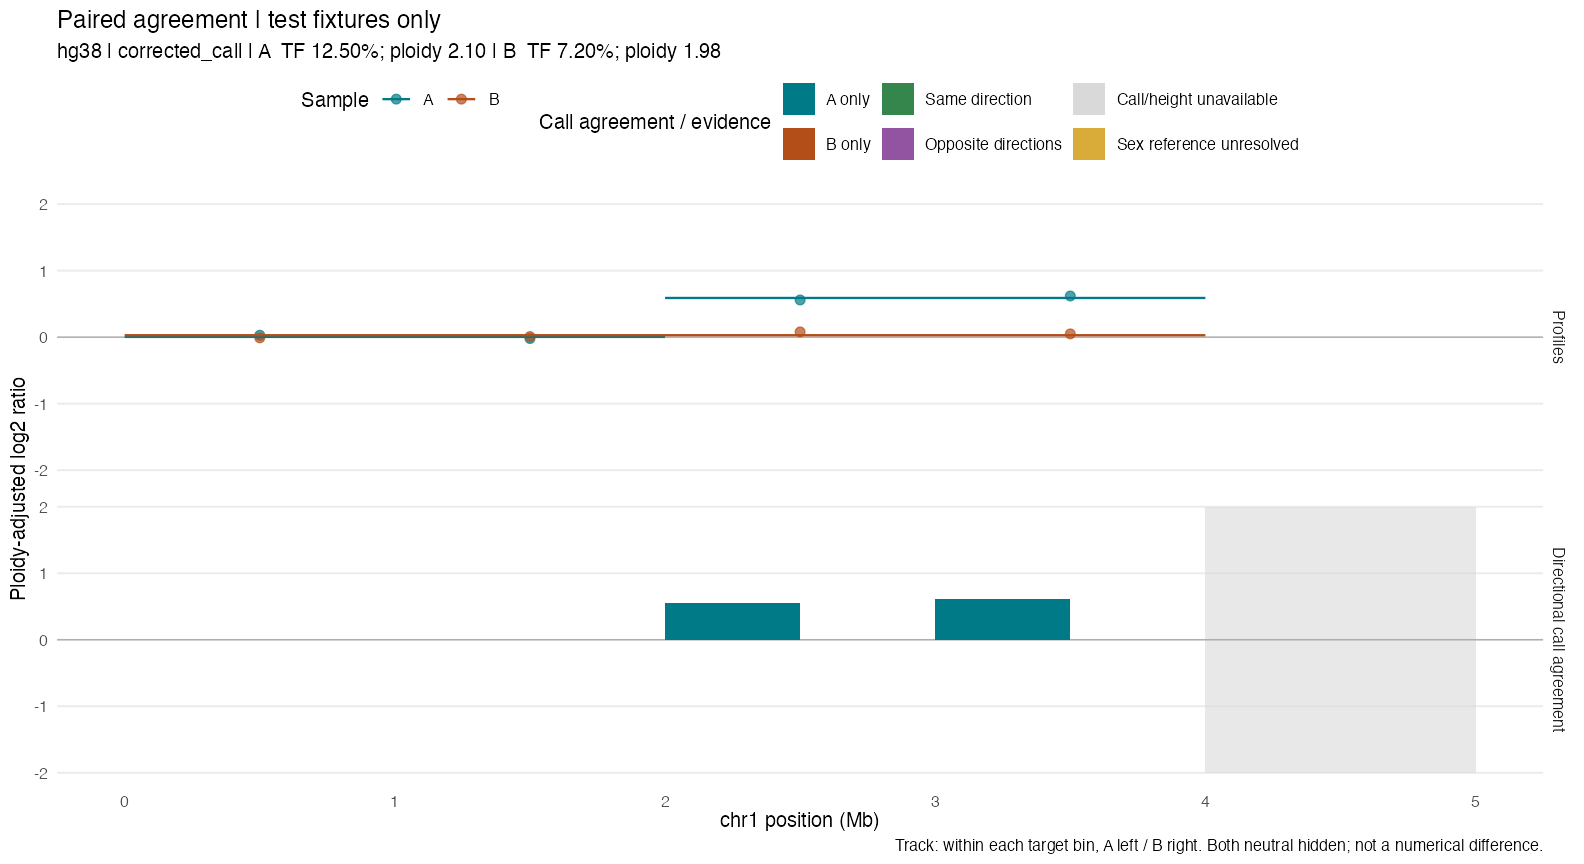
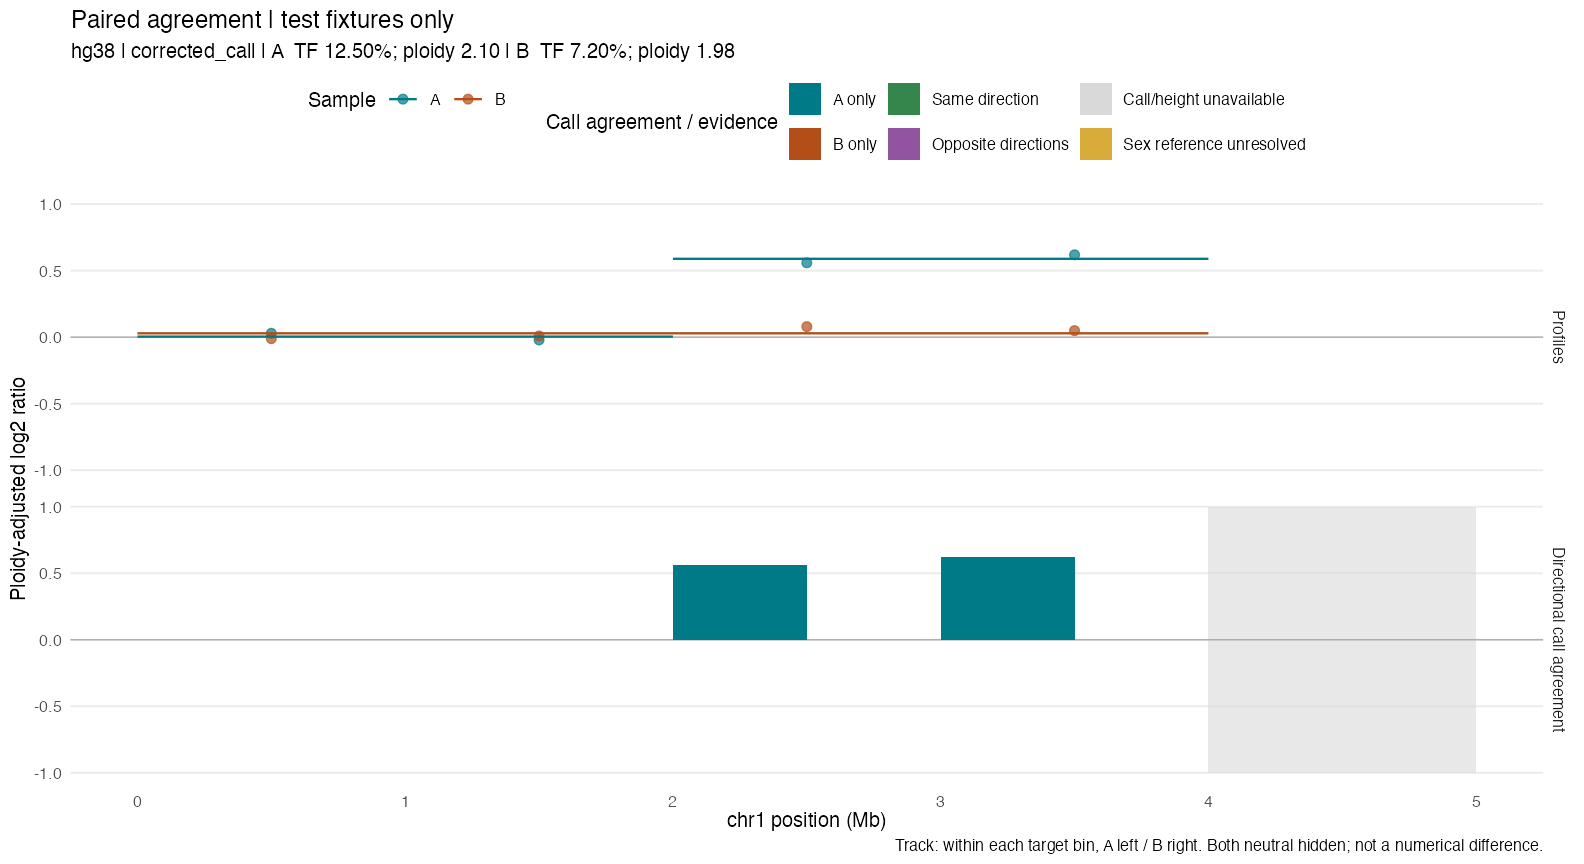
Address pre-merge review: ggplot 3.5 support, explicit panel sizing and linked palettes

diff --git a/README.md b/README.md
@@ -10,7 +10,7 @@ output: github_document
 
 **From ichorCNA output files to comparable, auditable figures in R.**
 
-[![R-CMD-check](https://github.com/bauernhofere/ichorViz/actions/workflows/R-CMD-check.yaml/badge.svg?branch=fix%2Fscientific-contracts)](https://github.com/bauernhofere/ichorViz/actions/workflows/R-CMD-check.yaml?query=branch%3Afix%2Fscientific-contracts)
+[![R-CMD-check](https://github.com/bauernhofere/ichorViz/actions/workflows/R-CMD-check.yaml/badge.svg?branch=main)](https://github.com/bauernhofere/ichorViz/actions/workflows/R-CMD-check.yaml?query=branch%3Amain)
 
 ichorViz reads existing [ichorCNA](https://github.com/GavinHaLab/ichorCNA)
 results and turns them into plots: single genome-wide profiles, overlays of
@@ -27,8 +27,8 @@ stay with the plots.
 | **Cohort** | Coverage-aware matrices and annotated ComplexHeatmap objects |
 | **Your style** | Ordinary ggplot objects, named palettes and public transformation helpers |
 
-> **Private development version.** This is the draft hardening branch, not a
-> public release; see the [decision register](docs/decision-register.md) for
+> **Private development version.** This is not a public software release;
+> see the [decision register](docs/decision-register.md) for
 > rationale and open approval gates.
 
 ## Install
@@ -37,7 +37,7 @@ stay with the plots.
 ``` r
 # install.packages("remotes")
 # Requires private-repository access.
-remotes::install_github("bauernhofere/ichorViz", ref = "fix/scientific-contracts")
+remotes::install_github("bauernhofere/ichorViz", ref = "main")
 # Record the exact commit you installed alongside your results:
 packageDescription("ichorViz")$RemoteSha
 
@@ -133,7 +133,7 @@ unknown. This is **call agreement**, not the numerical difference between fluids
 
 ``` r
 plot_ichor_concordance(
-  a, b, region = "chr1:1-5000000", ploidy_adjust = TRUE,
+  a, b, region = "chr1:1-5000000", ploidy_adjust = TRUE, ylim = c(-1, 1),
   sample_labels = c("A", "B"), point_size = 2, show_sample_id = FALSE
 ) + ggplot2::labs(title = "Paired agreement | test fixtures only")
 ```
@@ -152,12 +152,17 @@ Adjust panel proportions and mark widths without changing the measurements:
 ``` r
 plot_ichor_concordance(
   a, b, ploidy_adjust = TRUE,
-  heights = c(2, 1.1), segment_linewidth = 0.32, point_stroke = 0
+  panel_heights = c(2, 1.1), segment_linewidth = 0.32, point_stroke = 0
 ) + ggplot2::theme(legend.position = "bottom")
 ```
 
-`heights` orders the profile and agreement panels; singular `height` selects the
-bar-value policy. Styling keeps the same calls, coordinates and y limits.
+`panel_heights` orders the profile and agreement panels; `height` selects the
+bar-value policy. Unequal panel proportions require ggplot2 >= 4.0.0; ggplot2 3.5
+supports equal panels and all other options. Unsupported proportions fail clearly,
+rather than silently changing the layout. Styling keeps the same measurements.
+One-sided track colors follow `sample_colors` unless you supply an explicit
+agreement `colors` palette. The tighter y limits above are for the sparse demo;
+the function default remains -2 to 2.
 
 
 ``` r

diff --git a/docs/decision-register.md b/docs/decision-register.md
@@ -465,12 +465,20 @@ separate legends. Fitted TF/ploidy remain visible; identifiers can be hidden, bu
 plot data/attributes are not anonymized. Raw logR remains default; optional
 ploidy adjustment applies the same run-specific shift to bins, segments and track
 heights. `ylim=c(-2,2)` clips the view only and warns for out-of-range heights.
-Relative panel `heights`, `segment_linewidth` and `point_stroke` are presentation
+Relative `panel_heights`, `segment_linewidth` and `point_stroke` are presentation
 controls recorded in `ichor_view`; they do not change measurements or limits.
 Defaults retain equal panels, segment width 0.55 and inherited point stroke.
-Native ggplot2 >= 4.0.0 panel sizing keeps the result themeable without a new
-plot-composition dependency. A custom-style snapshot and numeric layout/data
-invariance tests cover these controls.
+The package supports ggplot2 >= 3.5.0. Unequal proportions use native ggplot2
+>= 4.0.0 panel sizing; on older versions the request errors rather than silently
+losing the requested layout. Equal panels and all other styling remain supported.
+This avoids a package-wide 4.0 requirement and preserves a themeable ggplot without
+a composition dependency. A custom-style snapshot and numeric layout/data
+invariance tests cover these controls. One-sided default track colors follow
+`sample_colors`; an explicit agreement palette takes precedence.
+
+The existing linear joint-coverage sweep is retained. Fine-bin profiling should
+precede an optimization; any replacement must retain interval/NA semantics and
+avoid unexpectedly large overlap joins. No fine-grid speed improvement is claimed.
 
 **Evidence:** [plot-concordance.R](../R/plot-concordance.R), numeric/device tests in
 [test-concordance.R](../tests/testthat/test-concordance.R), and new vdiffr cases in

diff --git a/NEWS.md b/NEWS.md
@@ -1,8 +1,14 @@
 # ichorViz 0.0.0.9003 (development)
 
-* Added concordance plot styling controls: relative panel `heights`,
+* Added concordance plot styling controls: relative `panel_heights`,
   `segment_linewidth` and `point_stroke`, preserving the existing defaults.
-  Native panel sizing requires ggplot2 >= 4.0.0; the result remains a ggplot.
+  The pre-release argument `heights` was renamed without an alias.
+* Support ggplot2 >= 3.5.0, with a pinned 3.5.2 CI job. Unequal panel proportions
+  require ggplot2 >= 4.0.0 and error on older versions, never silently degrade.
+* One-sided track colors now follow sample_colors unless colors is explicit.
+  All profile plotting paths consistently validate point_size.
+* Validation docs describe coverage instead of maintaining drifting test counts;
+  the README demo uses tighter limits while the function default remains -2,2.
 * Added explicit-pair directional call comparison and a stacked agreement plot:
   shared grid, independent call/logR coverage, unknown mixed/missing calls,
   baseline-evidence flags and optional conservative sex-chromosome gating.

diff --git a/docs/concordance-validation.md b/docs/concordance-validation.md
@@ -28,10 +28,12 @@ alternatives and limitations. The [methods](../inst/methods.md) define the contr
 
 ## Automated evidence
 
-- Pre-feature working tree: 46 test cases / 217 passing assertions, including
-  the existing four vdiffr snapshots.
-- With the feature: 58 test cases / 279 passing assertions, no failures/errors;
-  two additional vdiffr cases. Existing snapshots were retained.
+- The suite covers the pre-existing profile, comparison and region APIs alongside
+  the paired track. Visual baselines cover ordinary, styled and unresolved
+  sex-reference views. Test totals are reported by the run, not maintained here.
+- Numeric and device tests run on ggplot2 3.5 as well as current versions; visual
+  snapshots target ggplot2 4. Unequal panel sizing is tested on supporting versions
+  and explicitly rejected on older versions. CI pins a ggplot2 3.5.2 job.
 - Added numeric regressions cover all agreement classes, logR sign independence,
   deep-loss versus loss, unequal/shifted grids, missing calls versus missing
   heights, mixed winning modes, disjoint partial support, representative ties,

diff --git a/inst/methods.md b/inst/methods.md
@@ -184,9 +184,13 @@ mixing. Both panels share fixed y limits (default -2,2) and the selected raw or
 upstream-adjusted scale. Out-of-view values warn; source values are retained.
 Regions crop the display after aggregation, with original upper-bin midpoints.
 Data/settings/provenance and view settings are attached to the ggplot object.
-Relative panel `heights` (profiles, agreement), `segment_linewidth` and
+Relative `panel_heights` (profiles, agreement), `segment_linewidth` and
 `point_stroke` only control layout/marks and are recorded in `ichor_view`.
 Defaults preserve equal panels, width 0.55 and inherited ggplot point stroke.
+Unequal panel proportions require ggplot2 >= 4.0.0; older supported versions error
+on those requests, rather than ignore them. Equal panels work on ggplot2 3.5.
+Default one-sided track colors follow the sample palette; an explicit agreement
+palette overrides that derivation.
 These are display policies, not validated biological agreement statistics; see
 D19–D20 in the repository decision register.
 

diff --git a/docs/hardening-validation.md b/docs/hardening-validation.md
@@ -7,7 +7,8 @@ new evidence, and the diagnosis of CI failures not seen in this local run.
 
 ## Automated evidence
 
-- 35 test cases, 145 passing assertions, no failures/errors in the local run.
+- Scientific-contract regression tests passed without failures/errors. Coverage
+  is described below; per-run test totals belong in the test/CI output.
 - `make check`: 0 errors, 0 warnings; one environment-only NOTE:
   `unable to verify current time`.
 - Examples execute in R CMD check. Methods and upstream notice ship in `inst/`.

diff --git a/docs/downstream-validation.md b/docs/downstream-validation.md
@@ -60,7 +60,8 @@ manuscript workflow.
 
 ## Local evidence
 
-- 44 test cases / 203 passing assertions; no failures or errors.
+- Workflow regressions passed without failures/errors, covering accessors,
+  padding notices, neutral evidence and consistent bin/segment transforms.
 - R CMD check (including installed vignette execution and rebuilding): zero
   errors/warnings; environment NOTE `unable to verify current time`.
 - All 71 canonical samples imported under the new default, with one summary for
